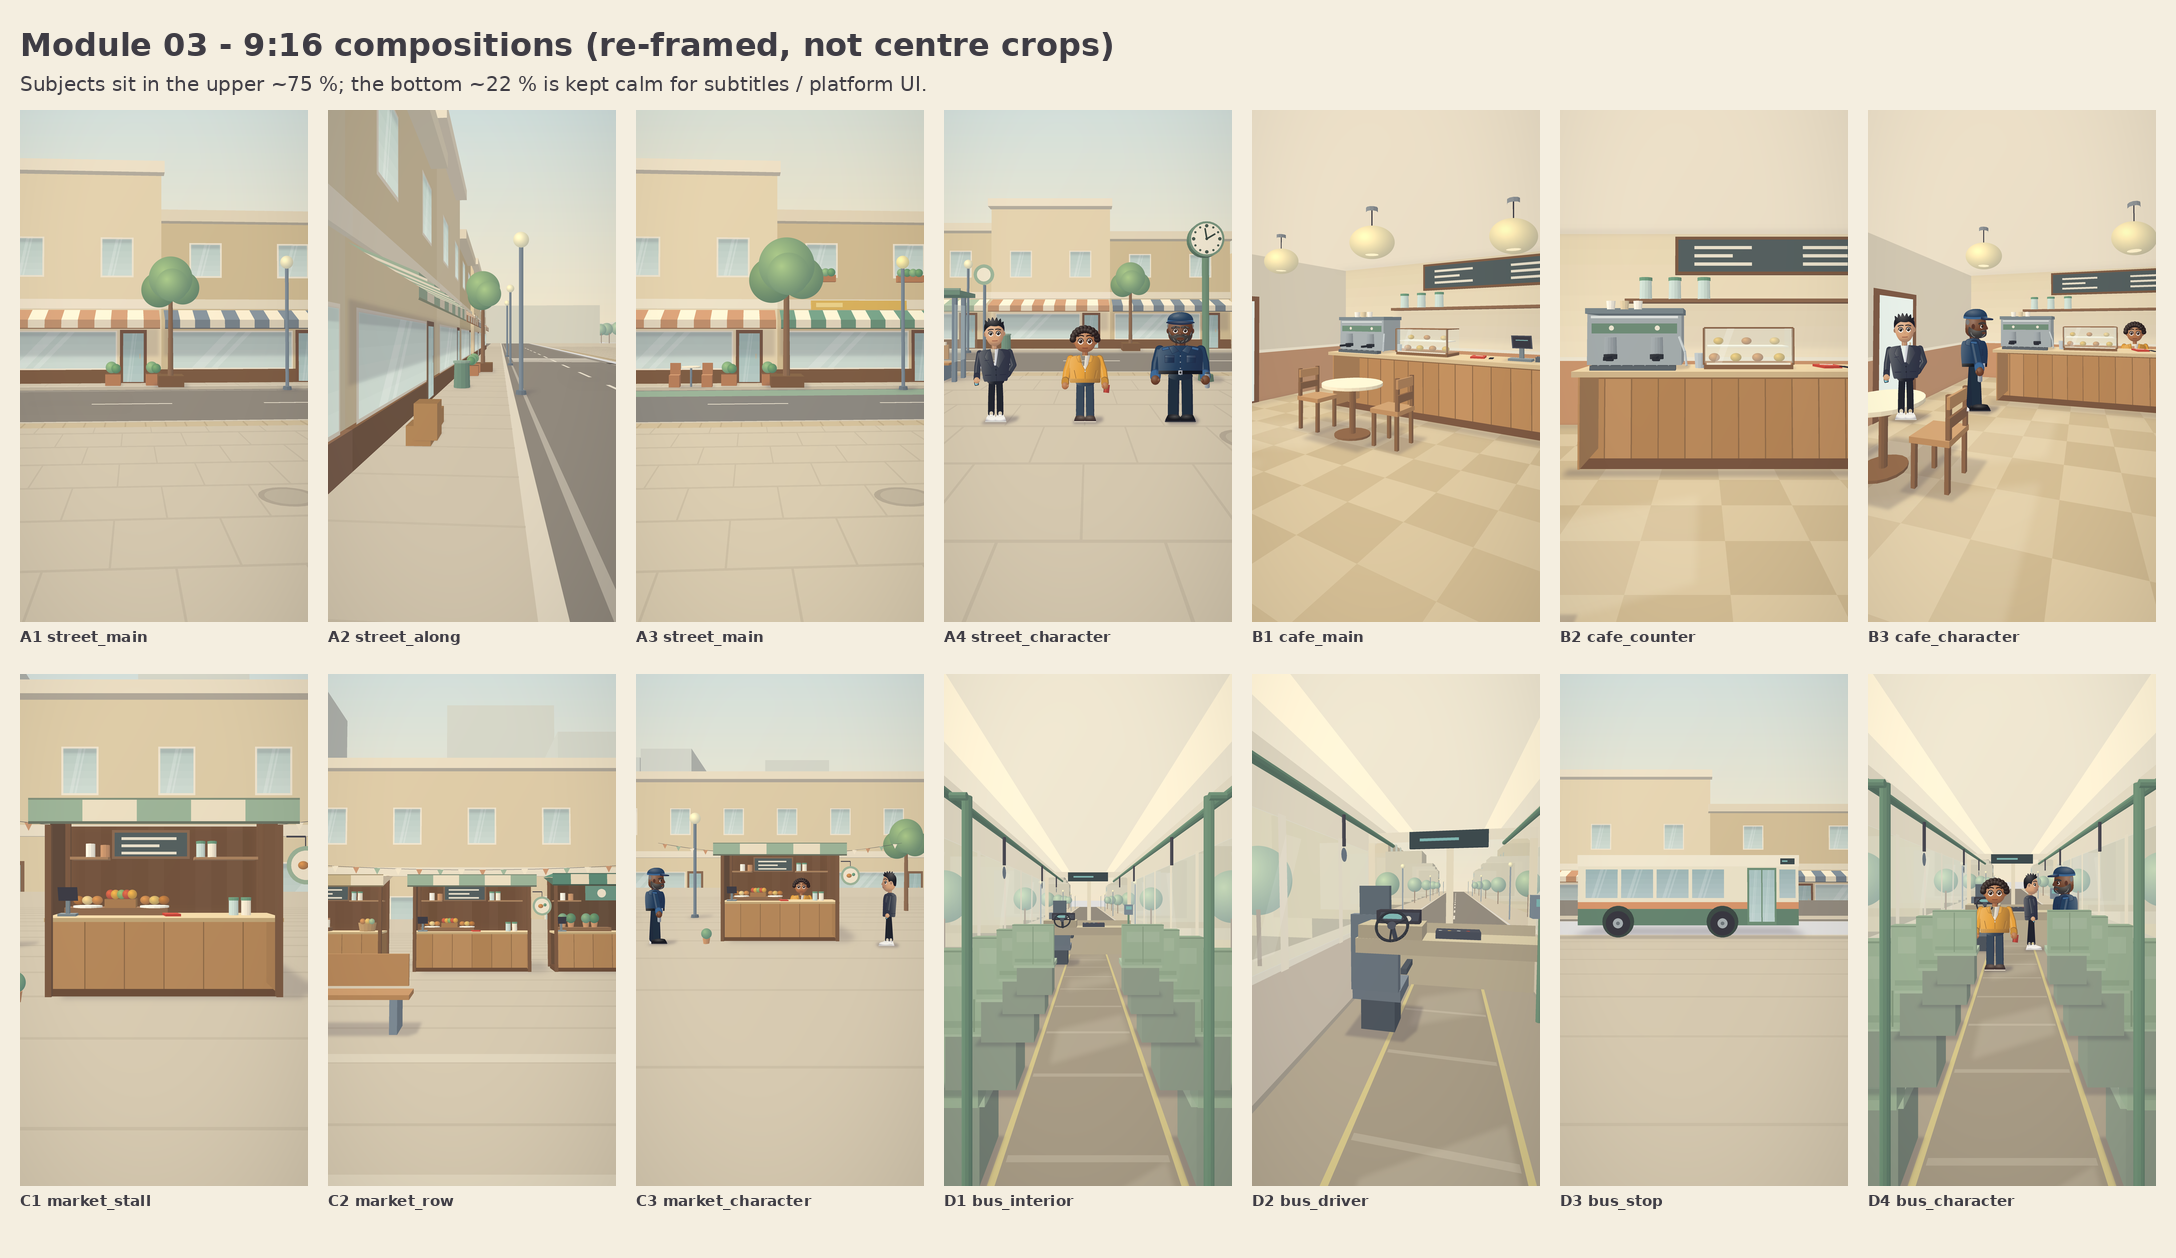
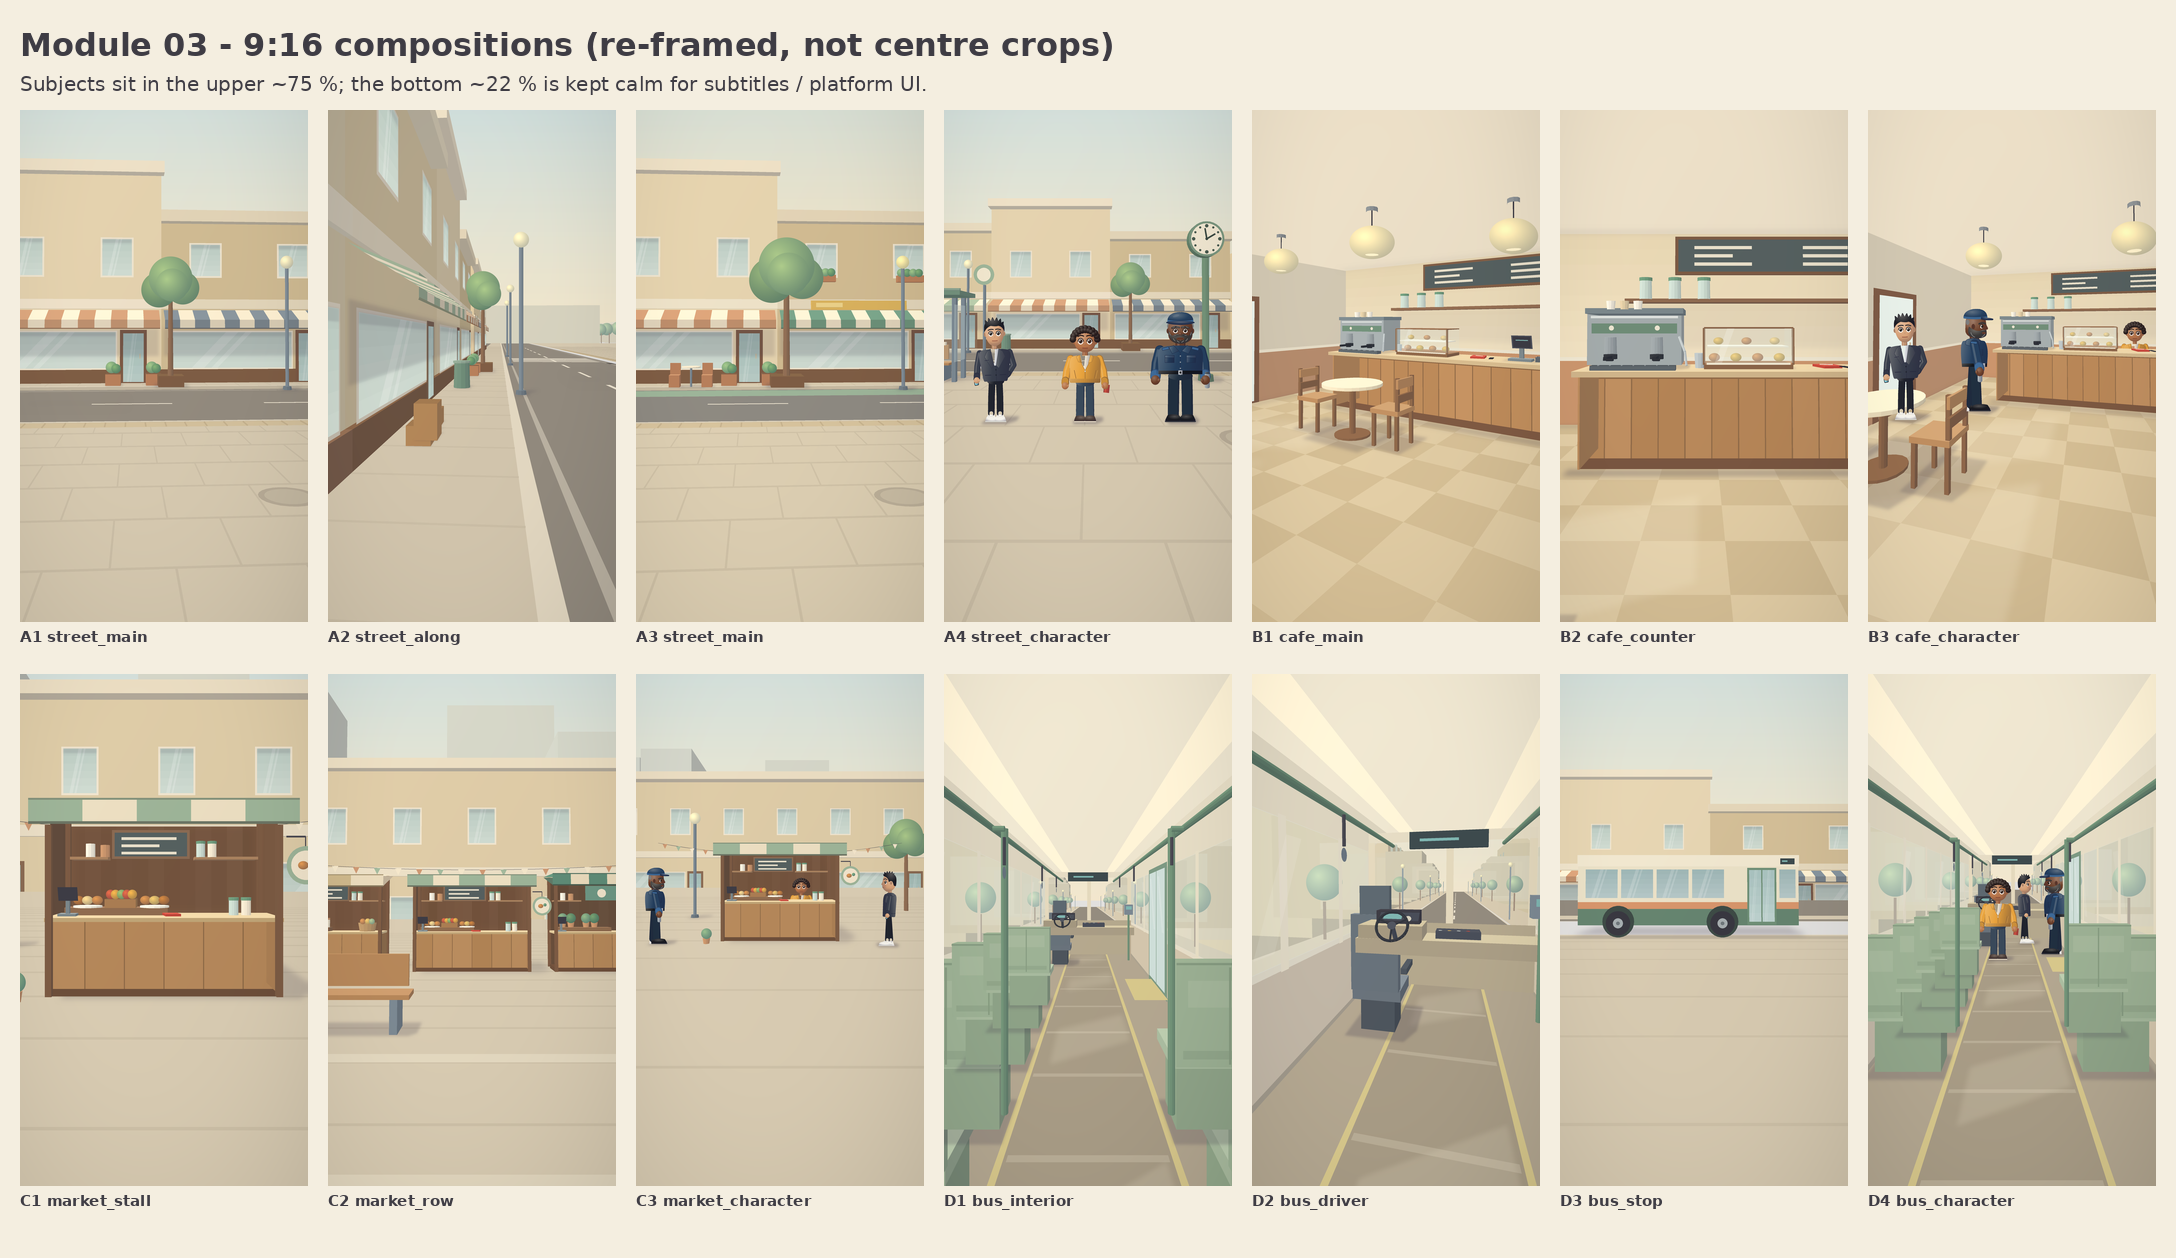
Module 03: bus second pass (D1/D2/D4 + 9:16), updated sheets and notes
Seats now read as receding rows, entrance vestibule added, D4 placement without overlaps.

Claude-Session: https://claude.ai/code/session_01SbTz58NuovQxcxNgnSwUEQ

Changed region(s): [[0.8438, 0.62, 1.0, 0.961], [0.4375, 0.62, 0.6562, 0.961], [0.6875, 0.682, 0.7188, 0.713]]

diff --git a/03_Location_Environment_Design/Corrections/source_generator/scene_bus.py b/03_Location_Environment_Design/Corrections/source_generator/scene_bus.py
@@ -15,7 +15,7 @@ YOUT = -0.85      # road level seen outside (floor is 0.85 m above the road)
 
 
 def cam_d1():
-    return dict(pos=(0.0, 1.5, 0.35), yaw=0.0, pitch=0.0, hfov=70.0)
+    return dict(pos=(0.0, 1.5, -2.0), yaw=0.0, pitch=0.0, hfov=62.0)
 
 
 def cam_d2():
@@ -23,7 +23,7 @@ def cam_d2():
 
 
 def cam_d4():
-    return dict(pos=(0.0, 1.55, 0.35), yaw=0.0, pitch=0.0, hfov=70.0)
+    return dict(pos=(0.0, 1.55, -1.6), yaw=0.0, pitch=0.0, hfov=58.0)
 
 
 # --------------------------------------------------------------------------------------------- outside world seen through glass
@@ -52,8 +52,8 @@ def outside(R):
                     if wy + 1.3 < h:
                         R.xrect(wz, wz + 1.0, wy, wy + 1.3, xf - 0.02 * xs, mix(c, (170, 195, 195), 0.5), n=nx, shade=False, cull=False)
             z += d + rng.uniform(0, 0.4)
-        for z in np.arange(-3, 100, 15.0):
-            R.sphere((xs * 5.2, 2.5 + YOUT, z), 0.95, mix(P['tree'], (205, 216, 214), min(0.55, 0.28 + z / 150)))
+        for z in np.arange(16, 100, 16.0):
+            R.sphere((xs * 5.2, 2.5 + YOUT, z), 0.75, mix(P['tree'], (205, 216, 214), min(0.55, 0.28 + z / 150)))
             R.line3d((xs * 5.2, YOUT + 0.12, z), (xs * 5.2, 1.7 + YOUT, z), mix(hx('8C6B52'), (205, 216, 214), 0.35), 0.12)
         for z in np.arange(3, 100, 22.0):
             R.line3d((xs * 3.6, YOUT + 0.12, z), (xs * 3.6, 3.6 + YOUT, z), mix(hx('7B8892'), (205, 216, 214), 0.3), 0.09)
@@ -63,34 +63,42 @@ def outside(R):
 # --------------------------------------------------------------------------------------------- interior
 def shell(R):
     # floor: aisle runner + darker seat zones; soft window-light patches
-    R.yrect(-HALFW, HALFW, -1, ZW, 0.0, hx('B4A892'), shade=False, cull=False)
-    R.yrect(-AISLE, AISLE, -1, ZW, 0.002, hx('A99D87'), shade=False, cull=False)
+    R.yrect(-HALFW, HALFW, -4, ZW, 0.0, hx('B4A892'), shade=False, cull=False)
+    R.yrect(-AISLE, AISLE, -4, ZW, 0.002, hx('A99D87'), shade=False, cull=False)
     for z in np.arange(0.4, ZW, 0.9):          # anti-slip strips
         R.yrect(-AISLE + 0.06, AISLE - 0.06, z, z + 0.05, 0.004, hx('B9AE98'), shade=False, cull=False)
     for xs in (-1, 1):
-        R.yrect(xs * (AISLE - 0.04), xs * AISLE, -1, ZW, 0.005, hx('D8C98E'), shade=False, cull=False)   # safety edge line
+        R.yrect(xs * (AISLE - 0.04), xs * AISLE, -4, ZW, 0.005, hx('D8C98E'), shade=False, cull=False)   # safety edge line
     for z in np.arange(0.9, ZW - 1, 2.4):
         R.shadow([(-0.35, 0.006, z), (0.45, 0.006, z + 0.5), (0.45, 0.006, z + 1.3), (-0.35, 0.006, z + 0.8)], 0.15, 9, tint=(255, 246, 222))
     # ceiling + warm light strips + side cove panels
-    R.yrect(-HALFW, HALFW, -1, ZW, CEIL, hx('EDE6D2'), n=(0, -1, 0), shade=False, cull=False)
+    R.yrect(-HALFW, HALFW, -4, ZW, CEIL, hx('EDE6D2'), n=(0, -1, 0), shade=False, cull=False)
     for xs in (-1, 1):
-        R.yrect(xs * 0.50, xs * 0.72, -1, ZW, CEIL - 0.003, hx('FFF5DA'), n=(0, -1, 0), shade=False, cull=False)
-        R.poly([(xs * 0.92, CEIL, -1), (xs * 0.92, CEIL, ZW), (xs * HALFW, 2.02, ZW), (xs * HALFW, 2.02, -1)], hx('E6DEC8') if xs > 0 else hx('D9D2BF'), (-xs * 0.7, -0.7, 0), shade=False, cull=False)
+        R.yrect(xs * 0.50, xs * 0.72, -4, ZW, CEIL - 0.003, hx('FFF5DA'), n=(0, -1, 0), shade=False, cull=False)
+        R.poly([(xs * 0.92, CEIL, -4), (xs * 0.92, CEIL, ZW), (xs * HALFW, 2.02, ZW), (xs * HALFW, 2.02, -4)], hx('E6DEC8') if xs > 0 else hx('D9D2BF'), (-xs * 0.7, -0.7, 0), shade=False, cull=False)
     # side walls: lower panel, window band with pillars, upper return
     for xs in (-1, 1):
         wc = hx('E1D8C0') if xs > 0 else hx('C9C4B6')
         nx = (-xs, 0, 0)
         x = xs * HALFW
-        R.xrect(-1, ZW, 0.0, 0.84, x, mix(wc, (150, 120, 96), 0.18), n=nx, shade=False, cull=False)
-        R.xrect(-1, ZW, 0.84, 0.90, x, mix(wc, (255, 250, 238), 0.25), n=nx, shade=False, cull=False)
+        R.xrect(-4, ZW, 0.0, 0.84, x, mix(wc, (150, 120, 96), 0.18), n=nx, shade=False, cull=False)
+        R.xrect(-4, ZW, 0.84, 0.90, x, mix(wc, (255, 250, 238), 0.25), n=nx, shade=False, cull=False)
         # glass (light outside) + frames
-        R.xrect(-1, ZW, 0.90, 2.02, x - xs * 0.01, hx('DDEBE8'), n=nx, shade=False, cull=False, alpha=0.30)
+        R.xrect(-4, ZW, 0.90, 2.02, x - xs * 0.01, hx('DDEBE8'), n=nx, shade=False, cull=False, alpha=0.30)
         for z in np.arange(-0.6, ZW, 1.1):
             R.xrect(z, z + 0.10, 0.84, 2.04, x - xs * 0.02, mix(wc, (245, 238, 218), 0.4), n=nx, shade=False, cull=False)
         # faint reflection streaks on the glass
         for z in np.arange(0.2, ZW - 1, 2.2):
             R.poly([(x - xs * 0.02, 1.0, z), (x - xs * 0.02, 1.0, z + 0.22), (x - xs * 0.02, 1.9, z + 0.62), (x - xs * 0.02, 1.9, z + 0.40)], (255, 255, 255), nx, shade=False, cull=False, alpha=0.10)
-        R.xrect(-1, ZW, 0.0, 0.05, x - xs * 0.02, mix(wc, (80, 70, 60), 0.35), n=nx, shade=False, cull=False)
+        R.xrect(-4, ZW, 0.0, 0.05, x - xs * 0.02, mix(wc, (80, 70, 60), 0.35), n=nx, shade=False, cull=False)
+    # double door on the right wall (entrance vestibule): frame, two glass leaves, step line
+    dz0, dz1 = 5.2, 6.5
+    R.xrect(dz0 - 0.06, dz1 + 0.06, 0.0, 2.08, HALFW - 0.03, hx('7E9A84'), n=(-1, 0, 0), shade=False, cull=False)
+    mid = (dz0 + dz1) / 2
+    for a, b in ((dz0 + 0.05, mid - 0.025), (mid + 0.025, dz1 - 0.05)):
+        R.xrect(a, b, 0.10, 2.0, HALFW - 0.04, hx('CFE0DC'), n=(-1, 0, 0), shade=False, cull=False)
+        R.poly([(HALFW - 0.045, 1.0, a + 0.05), (HALFW - 0.045, 1.0, a + 0.16), (HALFW - 0.045, 1.9, b - 0.10), (HALFW - 0.045, 1.9, b - 0.21)], (255, 255, 255), (-1, 0, 0), shade=False, cull=False, alpha=0.18)
+    R.yrect(HALFW - 0.5, HALFW, dz0, dz1, 0.01, hx('D8C98E'), shade=False, cull=False)
     # rear bulkhead is behind the camera. Front: windscreen frame (glass is the 'outside' showing through)
     R.zrect(-HALFW, HALFW, 0.0, 0.95, ZW, hx('B5A98F'), shade=False)               # cab front panel under the dash
     R.zrect(-HALFW, HALFW, 2.15, CEIL, ZW, hx('E4DCC6'), shade=False)               # header
@@ -101,19 +109,21 @@ def shell(R):
     R.zrect(-0.40, 0.15, 2.14, 2.18, ZW - 0.104, hx('7FB6B2'), shade=False)
 
 
-def seats(R, n=6, z0=1.05, pitch=0.86, zmin=-99, zmax=99):
+def seats(R, n=5, z0=1.45, pitch=0.84, zmin=-99, zmax=99, right_rows=2):
     rng = np.random.RandomState(4)
     for k in range(n):
         z = z0 + k * pitch
         if not (zmin <= z < zmax):
             continue
         for xs in (-1, 1):
+            if xs > 0 and k >= right_rows:        # entrance vestibule on the right: no seats beyond row 3
+                continue
             a, b = (xs * AISLE, xs * (HALFW - 0.03)) if xs > 0 else (xs * (HALFW - 0.03), xs * AISLE)
             col = jit(SAGE, rng, 3)
             # floor shadow
             R.shadow([(a, 0, z + 0.05), (b, 0, z + 0.05), (b, 0, z + 0.5), (a, 0, z + 0.5)], 0.22, 5)
             # riser under cushion
-            R.box(a + 0.04, 0.0, z + 0.14, b - 0.04, 0.46, z + 0.50, hx('8E9A88'))
+            R.box(a + 0.05, 0.0, z + 0.18, b - 0.05, 0.46, z + 0.48, mix(col, (70, 90, 70), 0.14))
             # cushion
             R.box(a, 0.44, z + 0.10, b, 0.52, z + 0.54, mix(col, (255, 255, 240), 0.10), top=mix(col, (255, 255, 240), 0.18))
             # backrest with a quiet headrest inset and darker cap
@@ -124,7 +134,7 @@ def seats(R, n=6, z0=1.05, pitch=0.86, zmin=-99, zmax=99):
             R.line3d((a, 1.12, z - 0.004), (b, 1.12, z - 0.004), mix(col, (70, 90, 70), 0.25), 0.012)
 
 
-def rails(R, z0=0.4, z1=8.7, poles=(1.9,)):
+def rails(R, z0=-3.6, z1=8.7, poles=(2.6,)):
     col = DSAGE
     for xs in (-1, 1):
         R.tube((xs * 0.66, 2.0, z0), (xs * 0.66, 2.0, z1), 0.022, col, n=10, caps=True)

diff --git a/03_Location_Environment_Design/Corrections/source_generator/d4_bus.py b/03_Location_Environment_Design/Corrections/source_generator/d4_bus.py
@@ -2,7 +2,7 @@ import sys; sys.path.insert(0, '.')
 import scene_bus as sb, kit, chars
 SP = '/tmp/claude-0/-home-claude/5dc6b3af-27dc-55b2-bf5f-19d08198bb85/scratchpad/'
 # Sam & Emeka flank the aisle at near-equal depth (true height ratio readable); Asha stands further ahead in the centre line.
-POS = dict(sam=(0.50, 8.1), emeka=(0.95, 6.9), asha=(-0.30, 6.3))
+POS = dict(sam=(0.38, 8.4), emeka=(0.85, 6.9), asha=(-0.28, 6.3))
 
 
 def d4(save=None, pos=POS, cam=None):

diff --git a/03_Location_Environment_Design/Corrections/source_generator/build_all.py b/03_Location_Environment_Design/Corrections/source_generator/build_all.py
@@ -94,7 +94,7 @@ PORT = {
     'D1_bus_interior_main_9x16': (P_D1, cm((0.0, 1.5, 0.35), 0, 0.0, 48), 300),
     'D2_bus_driver_cabin_9x16': (P_D2, cm((0.12, 1.50, 5.2), -12, -3.0, 54), 300),
     'D3_bus_stop_exterior_9x16': (P_D3, cm((3.6, 1.65, -13.0), 0, 1.5, 42), 370),
-    'D4_bus_character_placement_9x16': (P_D4, cm((0.0, 1.55, 0.35), 0, 0.0, 46), 370),
+    'D4_bus_character_placement_9x16': (P_D4, cm((0.0, 1.55, -1.6), 0, 0.0, 40), 370),
 }
 
 

diff --git a/03_Location_Environment_Design/Corrections/03_Correction_Report.md b/03_Location_Environment_Design/Corrections/03_Correction_Report.md
@@ -26,16 +26,16 @@ All 17 originals from commit `a9d8e76` (A1–A4, B1–B3, C1–C3, D1–D4, cont
 - **B3** Emeka and Sam moved off the counter line; Asha's face and upper body visible behind the counter; machine and terminal clear.
 - **C1/C2** product variety, calmer bunting, depth layers; C2 has several different independent stalls, Asha's recognisable by sage/cream canopy, blade sign, pot plants; bench/planter moved away from stall counters.
 - **C3** Emeka and Sam small and at the sides; Asha visible at her stall; no product/counter hidden.
-- **D1** central aisle kept, quiet seat variation, restrained rails/reflections.
+- **D1** (bus pass 2) camera pulled back so seats read as receding rows, not giant blocks; central aisle kept; entrance vestibule with a glass double door on the right (right side has 2 seat rows, left 5); outside trees pushed back and smaller; rails/reflections restrained.
 - **D2** recognisable driver's chair, wheel sized (≈0.40 m) and mounted on a raised pod, one dashboard assembly, believable windscreen view.
 - **D3** bus fully inside frame, shelter on the left, stop sign between shelter and bus, boarding area in front of the door clear.
-- **D4** Sam and Emeka in profile on the front platform facing each other, Asha in the aisle, no overlaps (≥ ~20 px gaps), aisle remains visible.
+- **D4** (bus pass 2) Sam and Emeka in profile facing each other at the front, Asha in the aisle ahead of them; Emeka now stands in the door vestibule so seat backs no longer hide his legs; no bounding-box overlaps visible on inspection; aisle remains visible.
 
 ## 9:16 compositions
 Re-framed per scene (new camera, narrower lens, vertical lens-shift so subjects sit high, ~22 % calm at the bottom for subtitles). Not centre crops. D3 vertical omits the shelter/sign on purpose (otherwise they cut at the frame edge).
 
 ## Remaining weaknesses (be critical)
-1. **Bus interiors (D1/D2/D4) are the weakest.** Seats are stacked blocks; the original D1 had cleaner, more convincing seat rows. Outside trees seen through the windows are large and slightly distracting.
+1. **Bus interiors (D1/D2/D4) are still the weakest, though improved in a second pass.** Seats are still simple boxy blocks (no curved backs/headrests) and the window glass looks milky; the lollipop trees outside are calmer but still stylised.
 2. Characters are flat cut-outs, only front/side views; no seated, walking or turned poses.
 3. Lighting is hand-tuned shading, not a real render; no true global illumination.
 4. Material detail (wood grain etc.) is only suggested by seams and tone.
@@ -47,4 +47,4 @@ Re-framed per scene (new camera, narrower lens, vertical lens-shift so subjects 
 Python/PIL renderer, sandbox with 8 GB RAM, no network/pip. No access to an image-generation or animation tool here, so nothing was generated by a specialist model.
 
 ## Recommendation
-Phase 4 (storyboard) can start for **street, café and market** – these are usable as layout/scale/mood references. The **bus module needs one more pass** (or a specialist-tool paint-over) before it is used for hero shots. Per project rules I have **not** started Phase 4 or any animation; waiting for your approval.
+Phase 4 (storyboard) can start for **street, café and market** – these are usable as layout/scale/mood references. The **bus module** got a second pass (seats, camera, vestibule) and is now usable for layout; a specialist-tool paint-over is still advisable before hero shots. Per project rules I have **not** started Phase 4 or any animation; waiting for your approval.

diff --git a/03_Location_Environment_Design/Corrections/03_Environment_Consistency_Notes_v2.md b/03_Location_Environment_Design/Corrections/03_Environment_Consistency_Notes_v2.md
@@ -15,10 +15,10 @@ Applies to the 14 corrected references in this folder. Supplements (does not rep
 | Street (A) | A1/A3 share one camera (pos −2.4, 2.3, −15; same shopfronts, shelter, sign, clock) | Year 10 only adds: street trees, planters/window boxes, deeper-sage awning, gold sign band, arrivals screen, cycle lane, café set, shop-4 shutter, warmer sky |
 | Café (B) | Back wall, counter (x −1.9…2.4, z 5.7–6.5), Asha's gap at x 0.95 | Machine left, pastry case centre, terminal right of the gap; pendants stay inside the frame |
 | Market (C) | Stall row on z = 0, building wall at z = 10 | Asha's stall = centre stall with blade sign, sage/cream canopy, pot plants; neighbours have different canopies/products |
-| Bus (D) | Interior x ±1.2, z 0–9.4; exterior bus at the kerb beside the shelter | Sage seats, sage rails, cream ceiling with two light strips, driver pod on the left, validator on the right |
+| Bus (D) | Interior x ±1.2, z −4…9.4; exterior bus at the kerb beside the shelter | Sage seats (left 5 rows, right 2 rows), glass double door on the right wall at z 5.2–6.5, sage rails, cream ceiling with two light strips, driver pod on the left, validator on the right |
 
 ## Character cut-out limits (important for Phase 4)
 Characters in v2 are cut-outs of the APPROVED front / side / back views, scaled to metres. They are **placement and scale references, not acting poses**. Each is a flat card (no turnaround). Real animation needs the specialist character pipeline.
 
 ## Known geometric fact
-Approved front views are ~1.0 m (Emeka) / ~0.7 m (Sam) / ~0.8 m (Asha) wide with arms. The bus aisle is 1.06 m, so two characters cannot stand abreast in the aisle in a front view. D4 therefore uses profile views for Sam and Emeka on the front platform, and Asha in the aisle ahead of them.
+Approved front views are ~1.0 m (Emeka) / ~0.7 m (Sam) / ~0.8 m (Asha) wide with arms. The bus aisle is 1.06 m, so two characters cannot stand abreast in the aisle in a front view. D4 therefore uses profile views for Sam and Emeka at the front (Emeka in the door vestibule), and Asha in the aisle.
